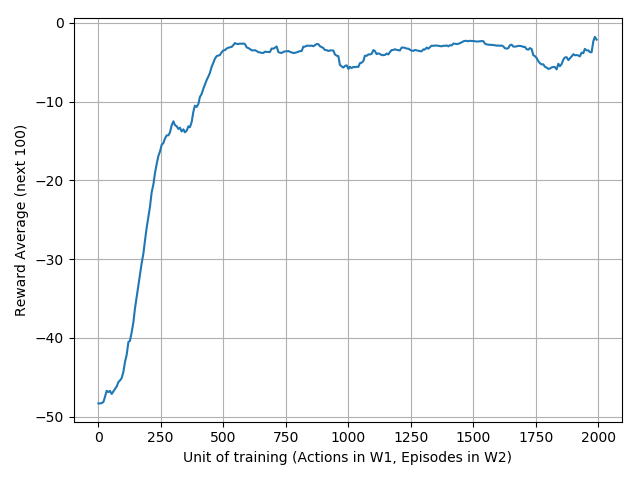
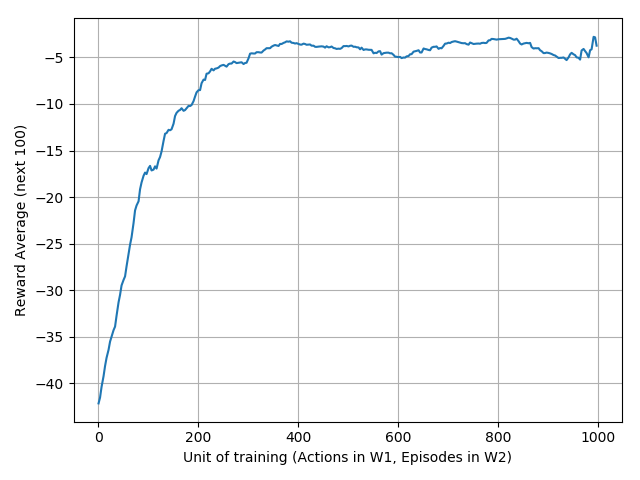
DDPG + HER

diff --git a/main.py b/main.py
@@ -9,7 +9,7 @@ from utils import plot
 
 def parse_arguments():
 	parser = argparse.ArgumentParser(description='Deep Q Network Argument Parser')
-	parser.add_argument('--env', default='FetchSlide-v1', type=str,
+	parser.add_argument('--env', default='FetchReach-v1', type=str,
 	                    help='[FetchReach-v1, FetchSlide-v1, FetchPush-v1, FetchPickAndPlace-v1]')
 	parser.add_argument('--model', default='algorithms', type=str, help='[algorithms, D3PG, IQDDPG]')
 	parser.add_argument('--eval', default=False, action='store_true',
@@ -23,8 +23,8 @@ def parse_arguments():
 	parser.add_argument('--batch-size', default=128, type=int)
 	parser.add_argument('--step', default=10, type=int, help='Number of gradient descent steps per episode')
 	parser.add_argument('--epsilon', default=0.3, type=float, help='Exploration noise, fixed in D4PG')
-	parser.add_argument('--train-episodes', default=2000, type=int, help='Number of episodes to train')
-	parser.add_argument('--save-episodes', default=200, type=int, help='Number of episodes to save model')
+	parser.add_argument('--train-episodes', default=1000, type=int, help='Number of episodes to train')
+	parser.add_argument('--save-episodes', default=100, type=int, help='Number of episodes to save model')
 	parser.add_argument('--memory-size', default=40000, type=int, help='Size of replay memory')
 	parser.add_argument('--C', default=1, type=int, help='Number of episodes to copy critic network to target network')
 	parser.add_argument('--N', type=int, default=10, help='N step returns.')

diff --git a/utils.py b/utils.py
@@ -16,16 +16,13 @@ def plot(prefix, rewards):
 			[('sum', 'Reward Sum (to date)', points_sum), \
 			 ('avg', 'Reward Average (next 100)', points_avg)]:
 		y_vals = func(rewards, x_vals)
-		for logscale in [True, False]:
-			if logscale:
-				plt.yscale('log')
-			plt.plot(x_vals + 1, y_vals)
-			plt.xlabel('Unit of training (Actions in W1, Episodes in W2)')
-			plt.ylabel(axis_label)
-			plt.grid(which='Both')
-			plt.tight_layout()
-			plt.savefig(prefix + '_' + name + '_' + ('log' if logscale else 'lin') + '.png')
-			plt.close()
+		plt.plot(x_vals + 1, y_vals)
+		plt.xlabel('Unit of training (Actions in W1, Episodes in W2)')
+		plt.ylabel(axis_label)
+		plt.grid(which='Both')
+		plt.tight_layout()
+		plt.savefig(prefix + '_' + name + '_' + 'lin.png')
+		plt.close()
 
 
 def points_sum(rewards, x_vals):
@@ -34,4 +31,4 @@ def points_sum(rewards, x_vals):
 
 def points_avg(rewards, x_vals):
 	return np.array([np.sum(rewards[val:min(len(rewards), val + 100)]) \
-					 / float(min(len(rewards) - val, 100)) for val in x_vals])
+	                 / float(min(len(rewards) - val, 100)) for val in x_vals])
